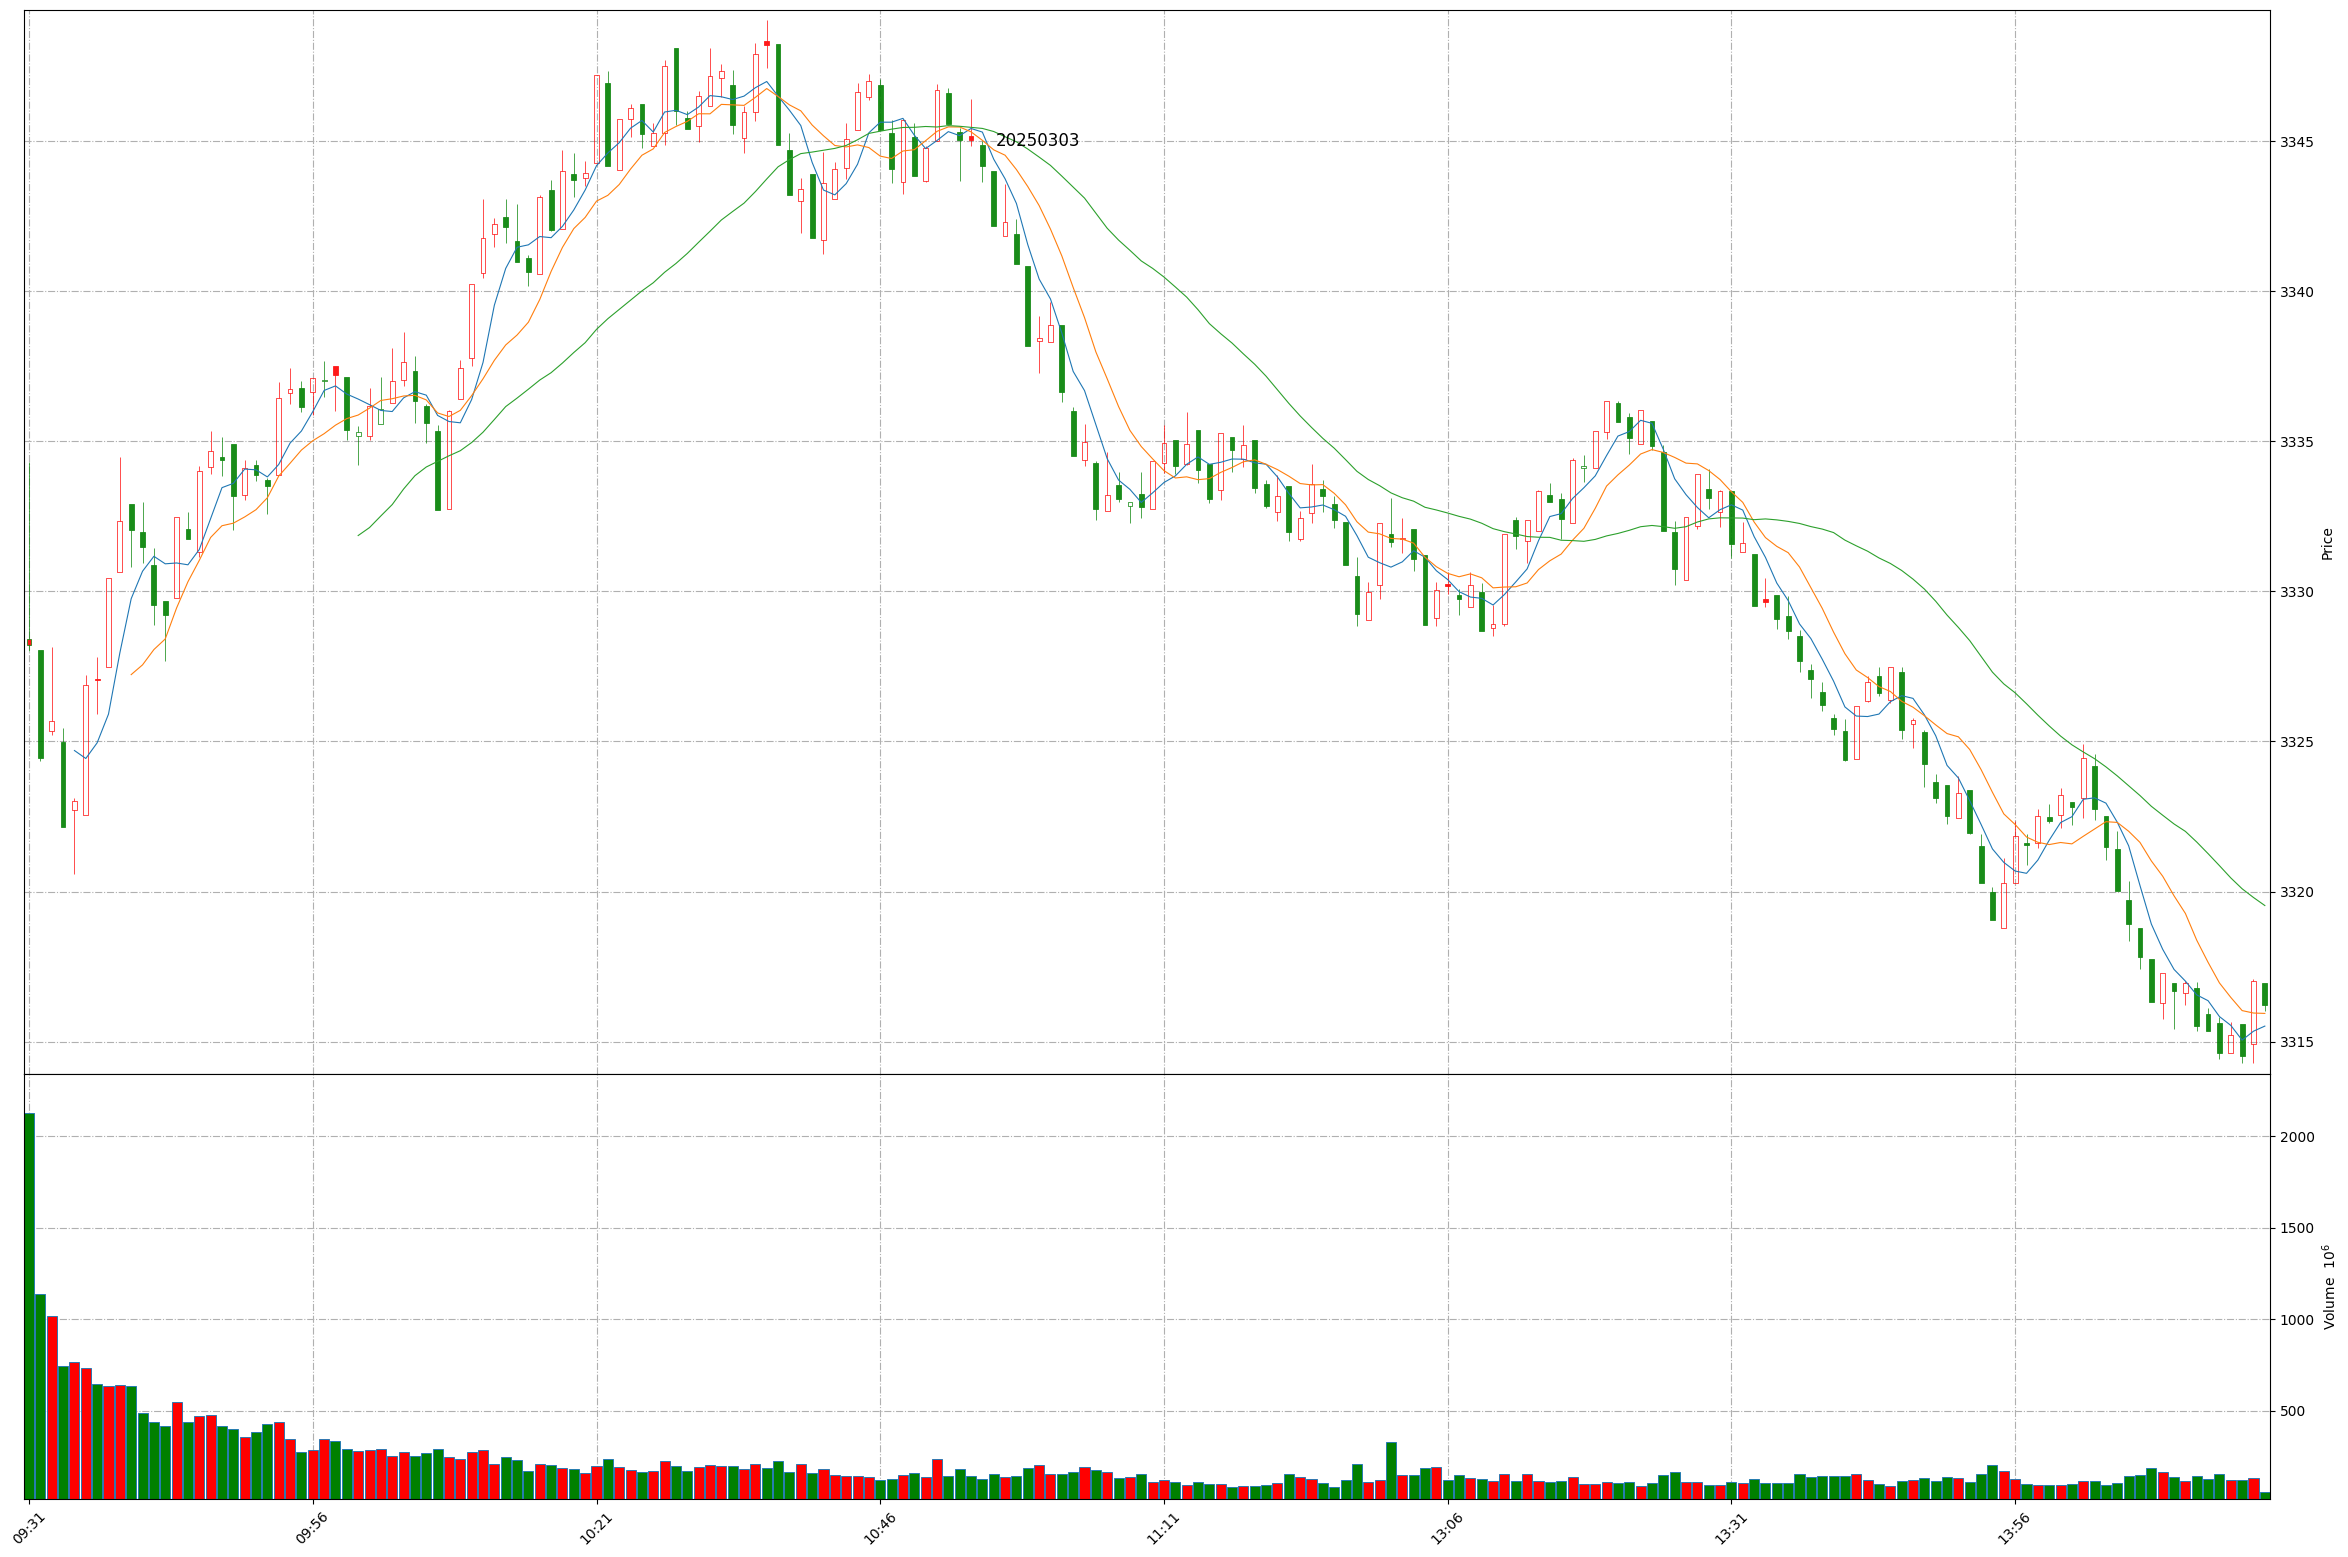
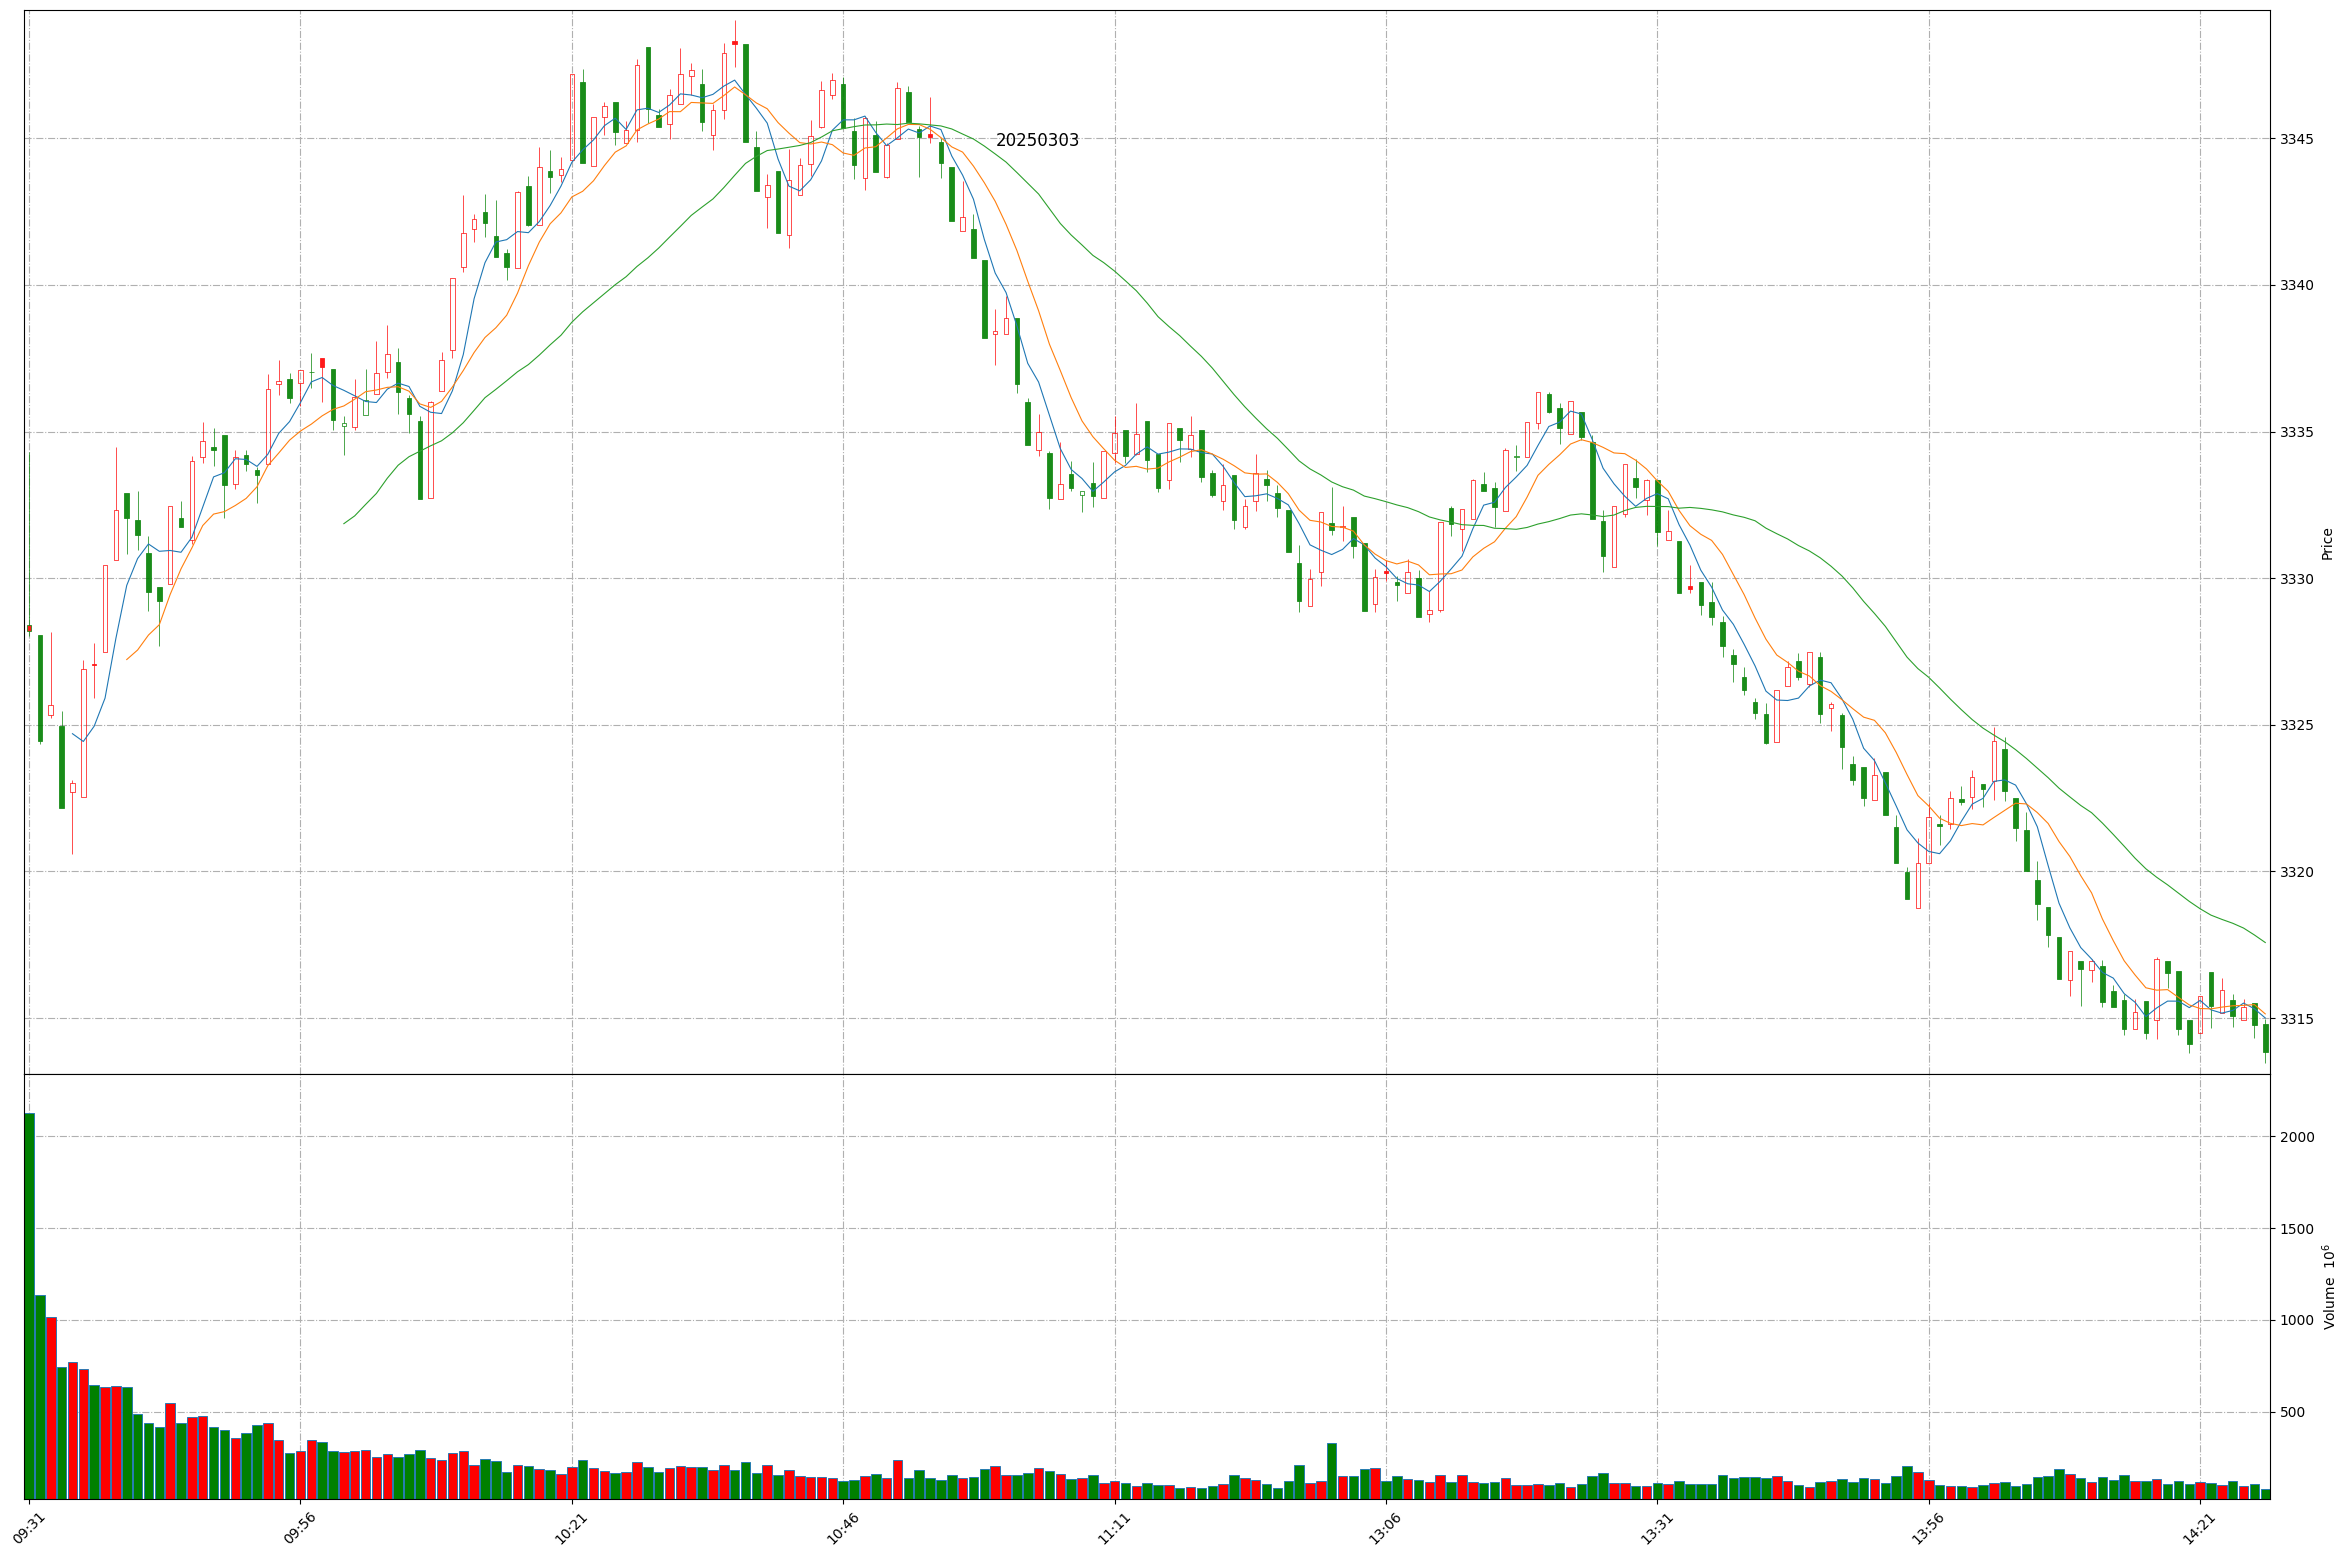
Github action update at 2025-03-03 14:26:47.

diff --git a/README.md b/README.md
@@ -1,11 +1,11 @@
 
 # Daily-A-share-market-quotes 每日 A 股指数（5min 更新）- 20250303
 
-### 上证指数 20250303 14:17
+### 上证指数 20250303 14:26
 ![](./fig/2025/3/20250303-sh000001.png)
 
-### 深证成指 20250303 14:17
+### 深证成指 20250303 14:26
 ![](./fig/2025/3/20250303-sz399001.png)
 
-### 北证50 20250303 14:17
+### 北证50 20250303 14:26
 ![](./fig/2025/3/20250303-bj899050.png)
